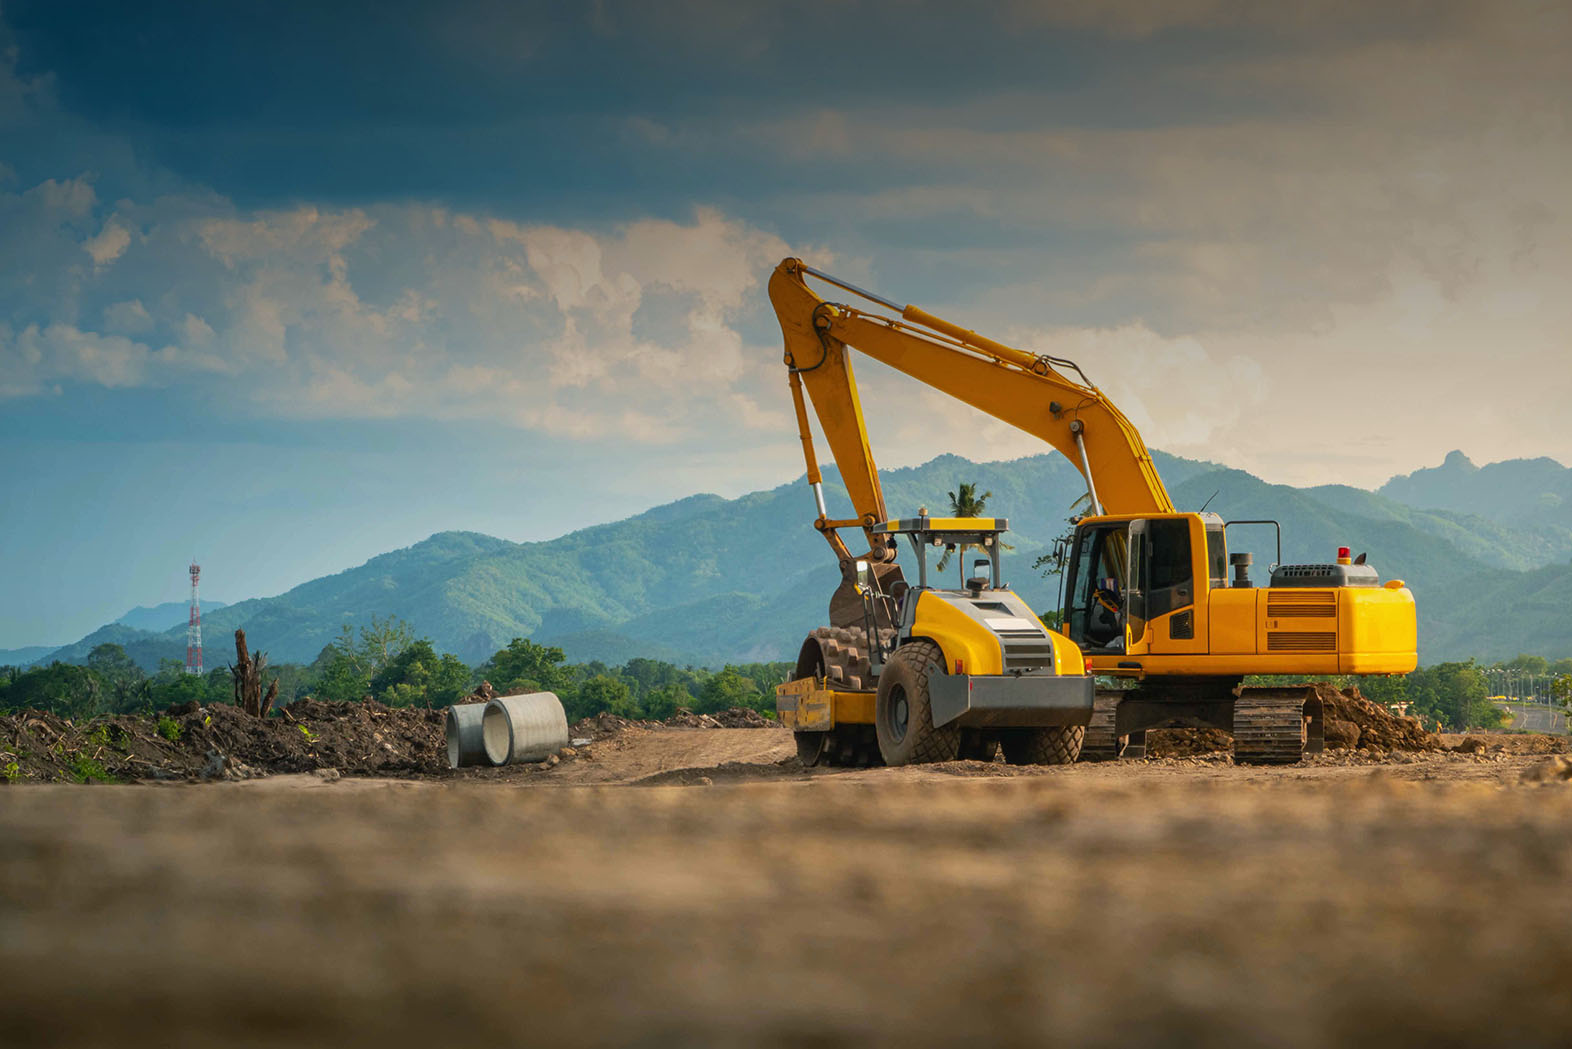
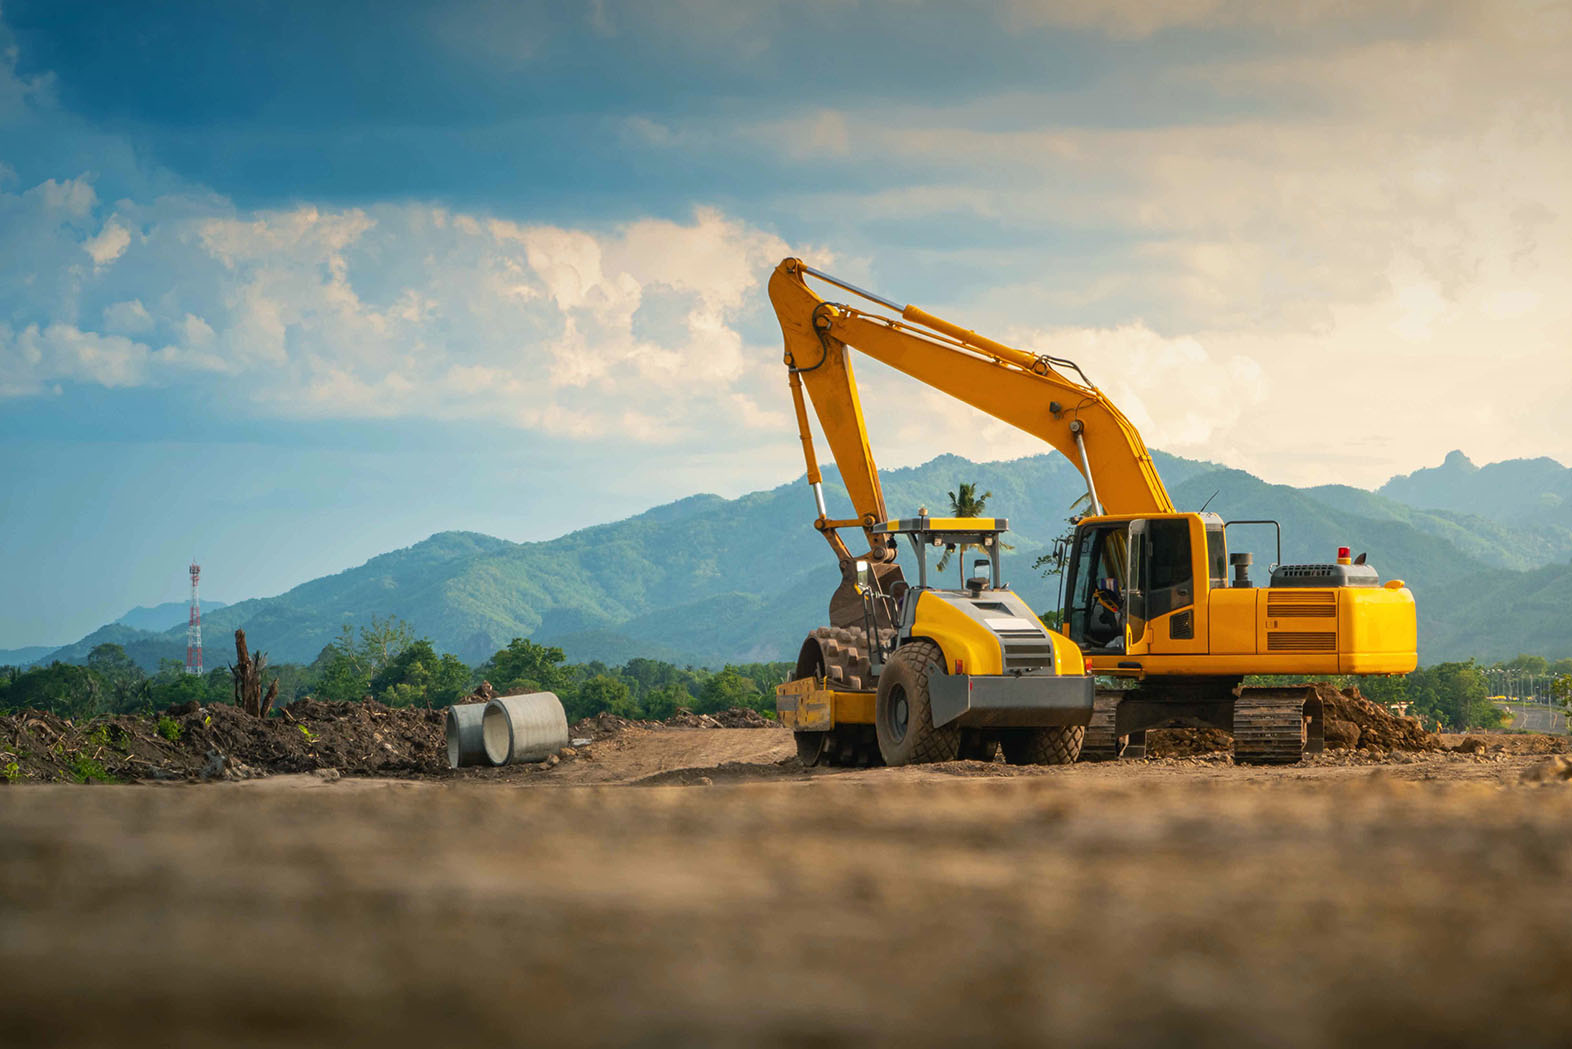
Pie de pagina home

diff --git a/index.html b/index.html
@@ -68,16 +68,16 @@
                 </div>
               <div class="carousel-inner">
                 <div class="carousel-item active h-100">
-                  <img src="assets/img/slider/slider-1.jpg" class="d-block w-100 h-100" alt="...">
+                  <img src="assets/img/slider/slider-1.jpg" class="d-block w-100 h-100 slider1" alt="...">
                 </div>
                 <div class="carousel-item h-100">
-                  <img src="assets/img/slider/slider-2.jpg" class="d-block w-100 h-100" alt="...">
+                  <img src="assets/img/slider/slider-2.jpg" class="d-block w-100 h-100 slider2" alt="...">
                 </div>
                 <div class="carousel-item h-100">
-                  <img src="assets/img/slider/slider-3.jpg" class="d-block w-100 h-100" alt="...">
+                  <img src="assets/img/slider/slider-3.jpg" class="d-block w-100 h-100 slider3" alt="...">
                 </div>
                 <div class="carousel-item h-100">
-                  <img src="assets/img/slider/slider-4.jpg" class="d-block w-100 h-100" alt="...">
+                  <img src="assets/img/slider/slider-4.jpg" class="d-block w-100 h-100 slider4" alt="...">
                 </div>
               </div>
               <button class="carousel-control-prev" type="button" data-bs-target="#carouselExampleIndicators" data-bs-slide="prev">
@@ -100,25 +100,23 @@
                    <p class="text-muted mb-0">Cra 24 No. 1A - 24 Ofic. 1006/BC Empresarial</p>
                    <p class="fw-semibold text-muted">Barranquilla - Atlántico</p>
                </div>
-               <div class="footer-siguenos col-md" style="color: #616d5b">
-                 <p class="text-uppercase mb-0 cinzel-bold">Síguenos</p>
+               <div class="footer-siguenos col-md">
+                 <p class="text-uppercase mb-0 cinzel-bold verde-principal">Síguenos</p>
                    
-                   <button type="button" class="btn px-1 pt-0">
-                       <svg xmlns="http://www.w3.org/2000/svg" width="16" height="16" fill="currentColor" class="bi bi-facebook" viewBox="0 0 16 16">
-                         <path fill="#616d5b" d="M16 8.049c0-4.446-3.582-8.05-8-8.05C3.58 0-.002 3.603-.002 8.05c0 4.017 2.926 7.347 6.75 7.951v-5.625h-2.03V8.05H6.75V6.275c0-2.017 1.195-3.131 3.022-3.131.876 0 1.791.157 1.791.157v1.98h-1.009c-.993 0-1.303.621-1.303 1.258v1.51h2.218l-.354 2.326H9.25V16c3.824-.604 6.75-3.934 6.75-7.951z"/>
-                       </svg>
-                   </button>
-                   
-                   <button type="button" class="btn px-1 pt-0">
-                       <svg xmlns="http://www.w3.org/2000/svg" data-name="Instagram w/circle" width="16" height="16" viewBox="0 0 19.2 19.2" ><path fill="#616d5b" d="M13.498 6.651a1.656 1.656 0 0 0-.95-.949 2.766 2.766 0 0 0-.928-.172c-.527-.024-.685-.03-2.02-.03s-1.493.006-2.02.03a2.766 2.766 0 0 0-.929.172 1.656 1.656 0 0 0-.949.95 2.766 2.766 0 0 0-.172.928c-.024.527-.03.685-.03 2.02s.006 1.493.03 2.02a2.766 2.766 0 0 0 .172.929 1.656 1.656 0 0 0 .95.949 2.766 2.766 0 0 0 .928.172c.527.024.685.03 2.02.03s1.493-.006 2.02-.03a2.766 2.766 0 0 0 .929-.172 1.656 1.656 0 0 0 .949-.95 2.766 2.766 0 0 0 .172-.928c.024-.527.03-.685.03-2.02s-.006-1.493-.03-2.02a2.766 2.766 0 0 0-.172-.929zM9.6 12.168A2.568 2.568 0 1 1 12.168 9.6 2.568 2.568 0 0 1 9.6 12.168zm2.669-4.637a.6.6 0 1 1 .6-.6.6.6 0 0 1-.6.6z"/><circle fill="#616d5b" cx="9.6" cy="9.6" r="1.667"/><path fill="#616d5b" d="M9.6 0a9.6 9.6 0 1 0 9.6 9.6A9.6 9.6 0 0 0 9.6 0zm4.97 11.662a3.67 3.67 0 0 1-.233 1.213 2.556 2.556 0 0 1-1.462 1.462 3.67 3.67 0 0 1-1.213.233c-.534.024-.704.03-2.062.03s-1.528-.006-2.062-.03a3.67 3.67 0 0 1-1.213-.233 2.556 2.556 0 0 1-1.462-1.462 3.67 3.67 0 0 1-.233-1.213c-.024-.534-.03-.704-.03-2.062s.006-1.528.03-2.062a3.67 3.67 0 0 1 .233-1.213 2.556 2.556 0 0 1 1.462-1.462 3.67 3.67 0 0 1 1.213-.233c.534-.024.704-.03 2.062-.03s1.528.006 2.062.03a3.67 3.67 0 0 1 1.213.233 2.556 2.556 0 0 1 1.462 1.462 3.67 3.67 0 0 1 .233 1.213c.024.534.03.704.03 2.062s-.006 1.528-.03 2.062z"/></svg>
-                   </button>
-                   
-                    <button type="button" class="btn px-1 pt-0">
-                       <svg xmlns="http://www.w3.org/2000/svg" xmlns:svgjs="http://svgjs.com/svgjs" xmlns:xlink="http://www.w3.org/1999/xlink" width="16" height="16"><svg xmlns="http://www.w3.org/2000/svg" width="16" height="16" viewBox="0 0 32 32"><path fill="#616d5b" d="M13.83 19.259L19.262 16l-5.432-3.259z" class="color000 svgShape"/><path fill="#616d5b" d="M16 0C7.164 0 0 7.163 0 16s7.164 16 16 16 16-7.164 16-16S24.836 0 16 0zm8.688 16.701c0 1.5-.174 3-.174 3s-.17 1.278-.69 1.839c-.661.738-1.401.742-1.741.786-2.432.186-6.083.192-6.083.192s-4.518-.044-5.908-.186c-.387-.077-1.254-.055-1.916-.792-.521-.562-.69-1.839-.69-1.839s-.174-1.499-.174-3v-1.406c0-1.5.174-2.999.174-2.999s.17-1.278.69-1.841c.661-.739 1.401-.743 1.741-.785 2.431-.188 6.079-.188 6.079-.188h.008s3.648 0 6.079.188c.339.042 1.08.046 1.741.784.521.563.69 1.841.69 1.841s.174 1.5.174 3v1.406z" class="color000 svgShape"/></svg></svg>
-                   </button>     
+                   <a href="#">
+                      <svg xmlns="http://www.w3.org/2000/svg" width="16" height="16" fill="currentColor" class="bi bi-facebook" viewBox="0 0 16 16">
+                        <path fill="#616d5b" d="M16 8.049c0-4.446-3.582-8.05-8-8.05C3.58 0-.002 3.603-.002 8.05c0 4.017 2.926 7.347 6.75 7.951v-5.625h-2.03V8.05H6.75V6.275c0-2.017 1.195-3.131 3.022-3.131.876 0 1.791.157 1.791.157v1.98h-1.009c-.993 0-1.303.621-1.303 1.258v1.51h2.218l-.354 2.326H9.25V16c3.824-.604 6.75-3.934 6.75-7.951z"/>
+                     </svg>
+                   </a>
+                   <a href="#">
+                      <svg xmlns="http://www.w3.org/2000/svg" data-name="Instagram w/circle" width="16" height="16" viewBox="0 0 19.2 19.2" ><path fill="#616d5b" d="M13.498 6.651a1.656 1.656 0 0 0-.95-.949 2.766 2.766 0 0 0-.928-.172c-.527-.024-.685-.03-2.02-.03s-1.493.006-2.02.03a2.766 2.766 0 0 0-.929.172 1.656 1.656 0 0 0-.949.95 2.766 2.766 0 0 0-.172.928c-.024.527-.03.685-.03 2.02s.006 1.493.03 2.02a2.766 2.766 0 0 0 .172.929 1.656 1.656 0 0 0 .95.949 2.766 2.766 0 0 0 .928.172c.527.024.685.03 2.02.03s1.493-.006 2.02-.03a2.766 2.766 0 0 0 .929-.172 1.656 1.656 0 0 0 .949-.95 2.766 2.766 0 0 0 .172-.928c.024-.527.03-.685.03-2.02s-.006-1.493-.03-2.02a2.766 2.766 0 0 0-.172-.929zM9.6 12.168A2.568 2.568 0 1 1 12.168 9.6 2.568 2.568 0 0 1 9.6 12.168zm2.669-4.637a.6.6 0 1 1 .6-.6.6.6 0 0 1-.6.6z"/><circle fill="#616d5b" cx="9.6" cy="9.6" r="1.667"/><path fill="#616d5b" d="M9.6 0a9.6 9.6 0 1 0 9.6 9.6A9.6 9.6 0 0 0 9.6 0zm4.97 11.662a3.67 3.67 0 0 1-.233 1.213 2.556 2.556 0 0 1-1.462 1.462 3.67 3.67 0 0 1-1.213.233c-.534.024-.704.03-2.062.03s-1.528-.006-2.062-.03a3.67 3.67 0 0 1-1.213-.233 2.556 2.556 0 0 1-1.462-1.462 3.67 3.67 0 0 1-.233-1.213c-.024-.534-.03-.704-.03-2.062s.006-1.528.03-2.062a3.67 3.67 0 0 1 .233-1.213 2.556 2.556 0 0 1 1.462-1.462 3.67 3.67 0 0 1 1.213-.233c.534-.024.704-.03 2.062-.03s1.528.006 2.062.03a3.67 3.67 0 0 1 1.213.233 2.556 2.556 0 0 1 1.462 1.462 3.67 3.67 0 0 1 .233 1.213c.024.534.03.704.03 2.062s-.006 1.528-.03 2.062z"/></svg>
+                   </a>
+                   <a href="#">
+                      <svg xmlns="http://www.w3.org/2000/svg" xmlns:svgjs="http://svgjs.com/svgjs" xmlns:xlink="http://www.w3.org/1999/xlink" width="16" height="16"><svg xmlns="http://www.w3.org/2000/svg" width="16" height="16" viewBox="0 0 32 32"><path fill="#616d5b" d="M13.83 19.259L19.262 16l-5.432-3.259z" class="color000 svgShape"/><path fill="#616d5b" d="M16 0C7.164 0 0 7.163 0 16s7.164 16 16 16 16-7.164 16-16S24.836 0 16 0zm8.688 16.701c0 1.5-.174 3-.174 3s-.17 1.278-.69 1.839c-.661.738-1.401.742-1.741.786-2.432.186-6.083.192-6.083.192s-4.518-.044-5.908-.186c-.387-.077-1.254-.055-1.916-.792-.521-.562-.69-1.839-.69-1.839s-.174-1.499-.174-3v-1.406c0-1.5.174-2.999.174-2.999s.17-1.278.69-1.841c.661-.739 1.401-.743 1.741-.785 2.431-.188 6.079-.188 6.079-.188h.008s3.648 0 6.079.188c.339.042 1.08.046 1.741.784.521.563.69 1.841.69 1.841s.174 1.5.174 3v1.406z" class="color000 svgShape"/></svg></svg>
+                   </a>   
                    
                </div>
-               <div class="footer-empresa col-md  d-block d-md-block d-lg-none pt-3 mt-4" style="color: #616d5b"><p class="text-uppercase mb-0 cinzel border-2">Metropoli s.a.</p></div>
+               <div class="footer-empresa col-md  d-block d-md-block d-lg-none pt-3 mt-4 verde-principal"><p class="text-uppercase mb-0 cinzel-bold border-2">Metropoli s.a.</p></div>
                <div class="footer-derechos col-md">
                    <small class="text-muted mb-0">Todos los derechos reservados</small>
                    <p class="fw-semibold text-muted">Política de datos, aviso de privacidad.</p>

diff --git a/assets/css/custom.css b/assets/css/custom.css
@@ -1,10 +1,10 @@
 @font-face {
     font-family: "cinzel-r";
-    src: url("/font/cinzel/Cinzel-VariableFont_wght.ttf");
+    src: url("../font/cinzel/Cinzel-VariableFont_wght.ttf");
 }
 @font-face {
     font-family: "cinzel-b";
-    src: url("/font/cinzel/static/Cinzel-Bold.ttf");
+    src: url("../font/cinzel/static/Cinzel-Bold.ttf");
 }
 .cinzel{
     font-family: "cinzel-r";
@@ -36,8 +36,11 @@ footer{
 .carousel-item img{
     object-fit: cover;
 }
-.proyectos .nav-item .nav-link{
+.proyectos .nav-item .nav-link, .verde-principal {
     color: #616d5b;
+}
+.footer-siguenos a{
+    text-decoration: none;
 }
 /* Desktops and laptops ----------- */
 @media only screen 
@@ -64,8 +67,16 @@ and (max-width : 768px) {
     .footer-info{
         order: 1;
     }
+    .footer-info p{
+        font-size: 0.9rem;
+        color: #e5e5e5!important;
+    }
     .footer-direccion{
         order: 2;
+    }
+    .footer-direccion p{
+        font-size: 0.9rem;
+        color: #e5e5e5!important;
     }
     .footer-siguenos{
         order: 0;
@@ -74,9 +85,14 @@ and (max-width : 768px) {
     .footer-empresa{
         order: 3;
         position: relative;
+        font-size: 0.8rem;
     }
     .footer-derechos{
         order: 4;
+    }
+    .footer-derechos p, .footer-derechos small{
+        font-size: 0.8rem;
+        color: #e5e5e5!important;
     }
     .footer-empresa:after{
         content: "";
@@ -116,5 +132,11 @@ and (max-width : 768px) {
     }
     .proyectos .navbar-mobile-open .nav-item .nav-link{
         color: white;
+    }
+    .slider2{
+        object-position: 95% 50%;
+    }
+    .slider4{
+        object-position: 80% 50%;
     }
 }
